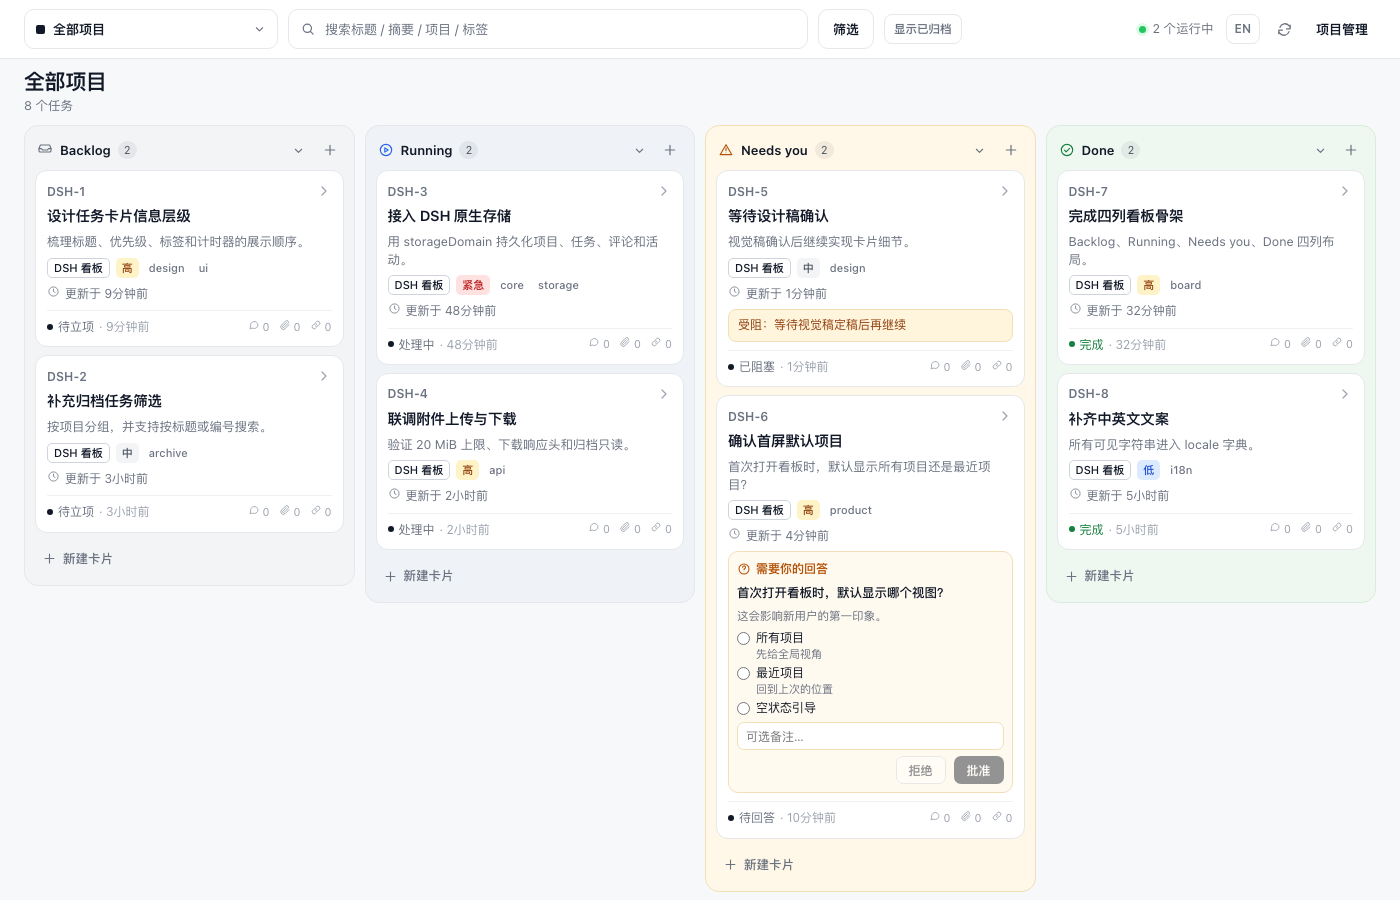
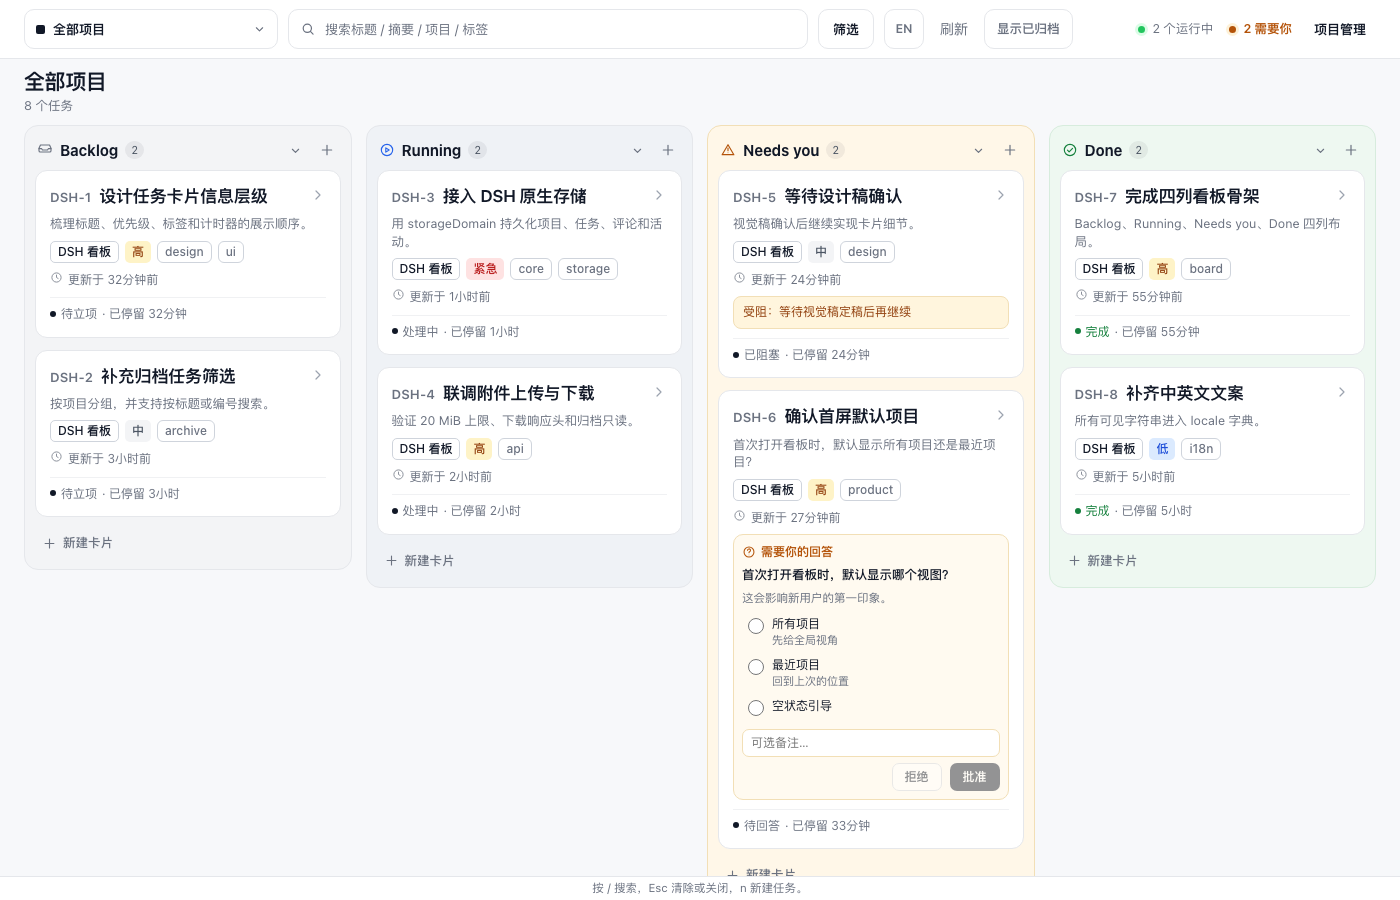
docs: record round-two ux audit and v0.6.0

diff --git a/README.zh-CN.md b/README.zh-CN.md
@@ -8,7 +8,7 @@
 
 <p align="center">
   <a href="https://github.com/SilasSolivagus/codex-kanban/actions/workflows/ci.yml"><img src="https://github.com/SilasSolivagus/codex-kanban/actions/workflows/ci.yml/badge.svg" alt="CI"></a>
-  <a href="https://github.com/SilasSolivagus/codex-kanban"><img src="https://img.shields.io/badge/version-0.5.0-2F6FB2" alt="版本 0.1.0"></a>
+  <a href="https://github.com/SilasSolivagus/codex-kanban"><img src="https://img.shields.io/badge/version-0.6.0-2F6FB2" alt="版本 0.1.0"></a>
   <img src="https://img.shields.io/badge/tests-213%20passing-2ea043" alt="213 项测试通过">
   <a href="LICENSE"><img src="https://img.shields.io/badge/license-MIT-2F6FB2" alt="MIT 许可证"></a>
 </p>

diff --git a/README.md b/README.md
@@ -8,7 +8,7 @@
 
 <p align="center">
   <a href="https://github.com/SilasSolivagus/codex-kanban/actions/workflows/ci.yml"><img src="https://github.com/SilasSolivagus/codex-kanban/actions/workflows/ci.yml/badge.svg" alt="CI"></a>
-  <a href="https://github.com/SilasSolivagus/codex-kanban"><img src="https://img.shields.io/badge/version-0.5.0-2F6FB2" alt="Version 0.5.0"></a>
+  <a href="https://github.com/SilasSolivagus/codex-kanban"><img src="https://img.shields.io/badge/version-0.6.0-2F6FB2" alt="Version 0.6.0"></a>
   <img src="https://img.shields.io/badge/tests-213%20passing-2ea043" alt="213 tests passing">
   <a href="LICENSE"><img src="https://img.shields.io/badge/license-MIT-2F6FB2" alt="MIT license"></a>
 </p>
